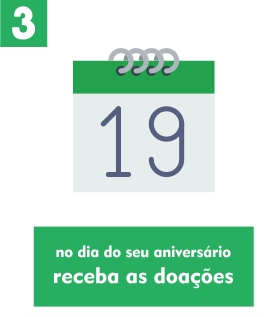
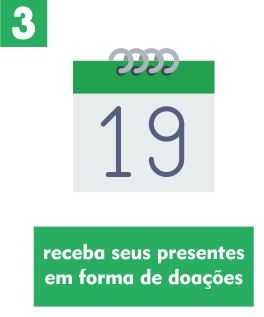
add alt no index

Changed region(s): [[0.1515, 0.7666, 0.9394, 0.9085]]

diff --git a/nucleo/templates/nucleo/widgets/aniversario_panel.html b/nucleo/templates/nucleo/widgets/aniversario_panel.html
@@ -1,9 +1,9 @@
 <div class="panel panel-default">
-    <a href="{% url 'aniversario:index' slug_usuario=aniversario.usuario.slug slug_missao=aniversario.missao.slug %}"><img src="{{ aniversario.missao.foto_divulgacao_quadrada_url }}" class="img-responsive" /></a>
+    <a href="{% url 'aniversario:index' slug_usuario=aniversario.usuario.slug slug_missao=aniversario.missao.slug %}"><img src="{{ aniversario.missao.foto_divulgacao_quadrada_url }}" class="img-responsive" alt="Foto principal da missão {{ aniversario.missao.titulo }}" /></a>
     <div class="progress"><div class="progress-bar progress-bar-success" style="width: {{ aniversario.meta_atingida_por }}%;"></div></div>
     <div class="panel-body">
         <div class="media">
-            <div class="media-left"><img src="{{ aniversario.usuario.foto_xs_url }}" class="img-rounded" /></div>
+            <div class="media-left"><img src="{{ aniversario.usuario.foto_xs_url }}" class="img-rounded" alt="Foto de {{ aniversario.usuario.nome }}" /></div>
             <div class="media-body">
                 <h4><small>A missao de {{ aniversario.usuario.nome_curto }} é </small><br><a href="{% url 'aniversario:index' slug_usuario=aniversario.usuario.slug slug_missao=aniversario.missao.slug %}">{{ aniversario.missao.titulo }}</a></h4>
                 <p>R${{ aniversario.meta_atingida }} arrecados de R${{ aniversario.missao.meta }}</p>

diff --git a/webapp/templates/webapp/index.html b/webapp/templates/webapp/index.html
@@ -48,8 +48,8 @@
         <h2>Como Funciona</h2>
         <div class="row">
             <div class="col-md-3 col-sm-6 margin-top-bottom text-center"><img src="{% static 'imgs/COMO-FUNCIONA-1.png' %}" class="img-responsive" alt="Inicie seu Aniversário Solidário" /></div>
-            <div class="col-md-3 col-sm-6 margin-top-bottom text-center"><img src="{% static 'imgs/COMO-FUNCIONA-2.png' %}" class="img-responsive" alt="Conte aos seus amigos, recebas as doações" /></div>
-            <div class="col-md-3 col-sm-6 margin-top-bottom text-center"><img src="{% static 'imgs/COMO-FUNCIONA-3.png' %}" class="img-responsive" alt="No dia do seu aniversário receba as doações" /></div>
+            <div class="col-md-3 col-sm-6 margin-top-bottom text-center"><img src="{% static 'imgs/COMO-FUNCIONA-2.png' %}" class="img-responsive" alt="Compartilhe com os seus amigos" /></div>
+            <div class="col-md-3 col-sm-6 margin-top-bottom text-center"><img src="{% static 'imgs/COMO-FUNCIONA-3.png' %}" class="img-responsive" alt="Receba seus presentes em forma de doações" /></div>
             <div class="col-md-3 col-sm-6 margin-top-bottom text-center"><img src="{% static 'imgs/COMO-FUNCIONA-4.png' %}" class="img-responsive" alt="Faça uma boa ação, deixe alguém feliz" /></div>
         </div>
         {% if aniversarios %}
